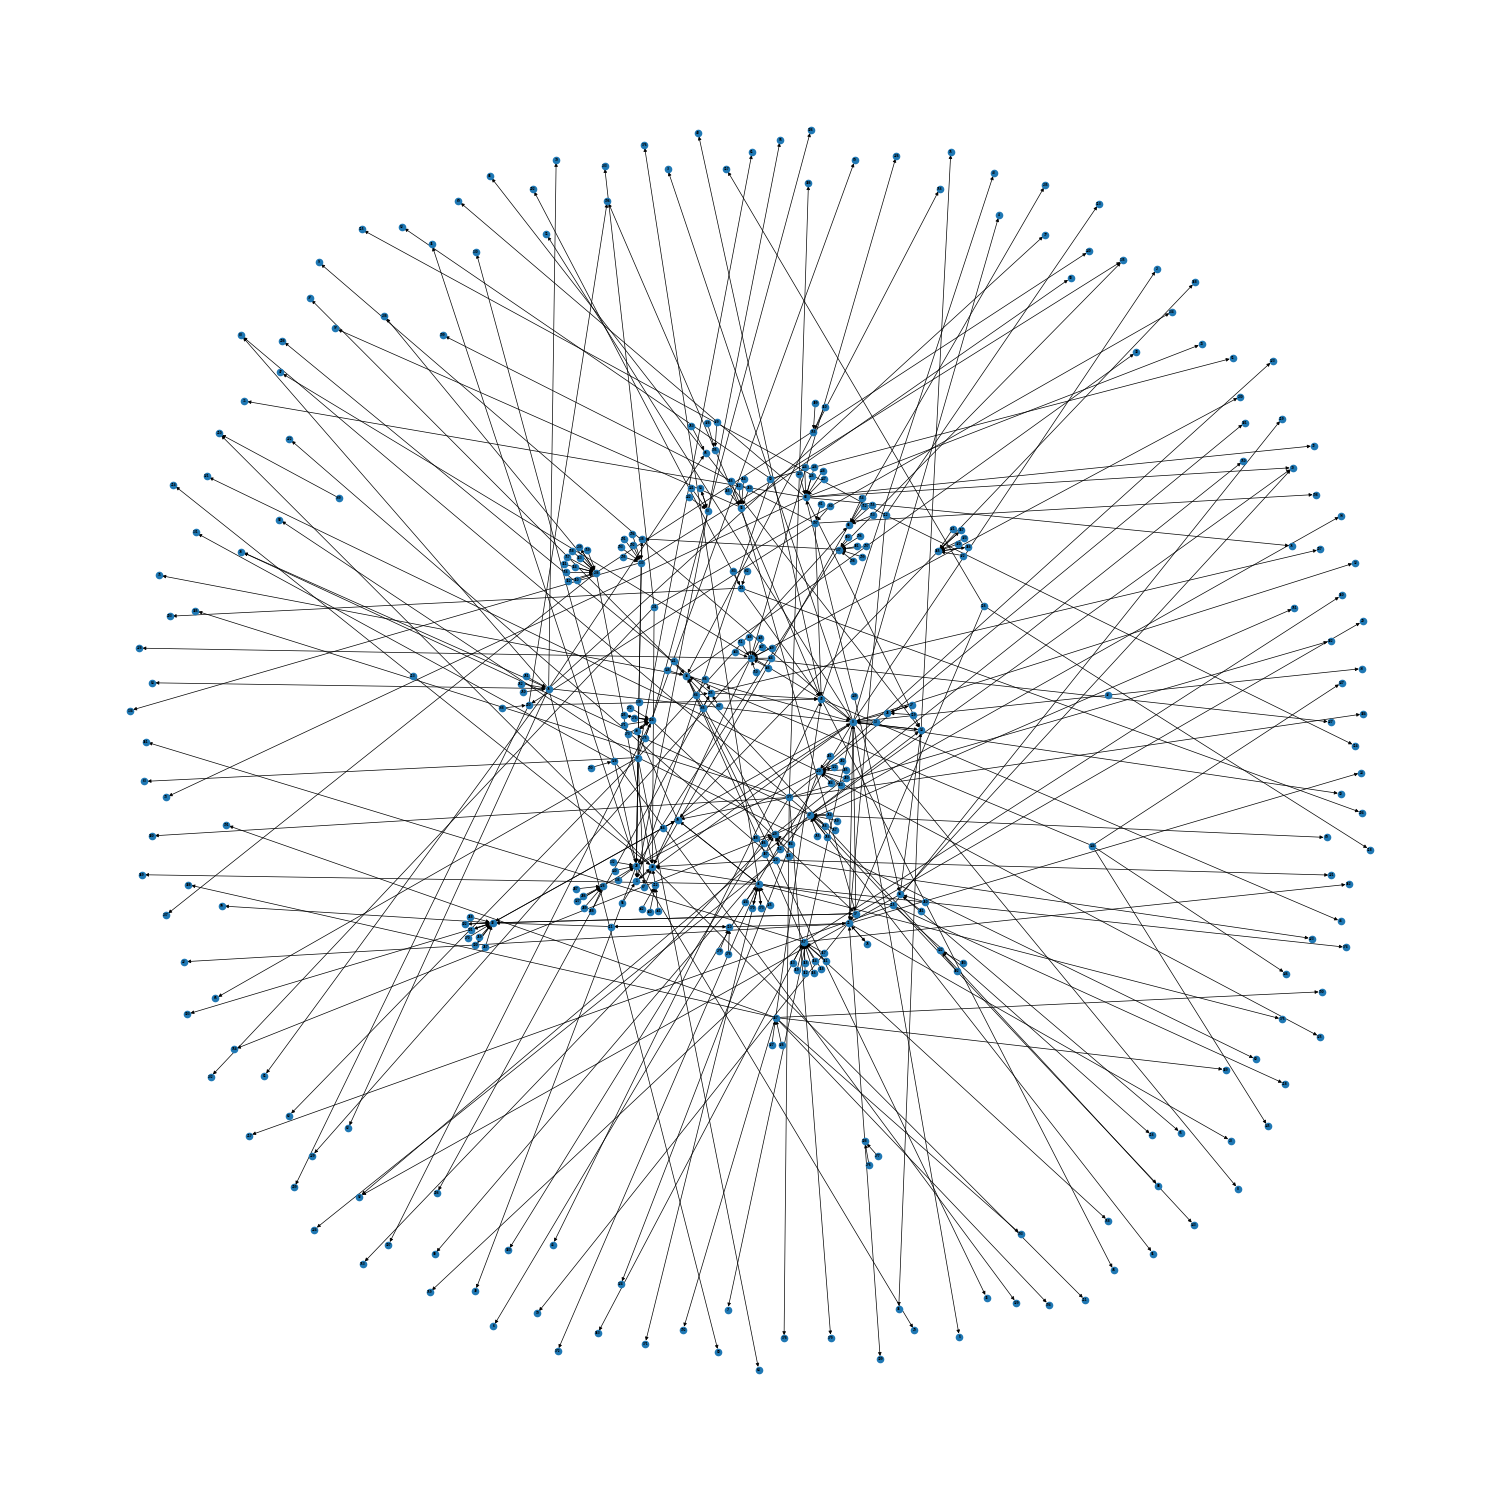
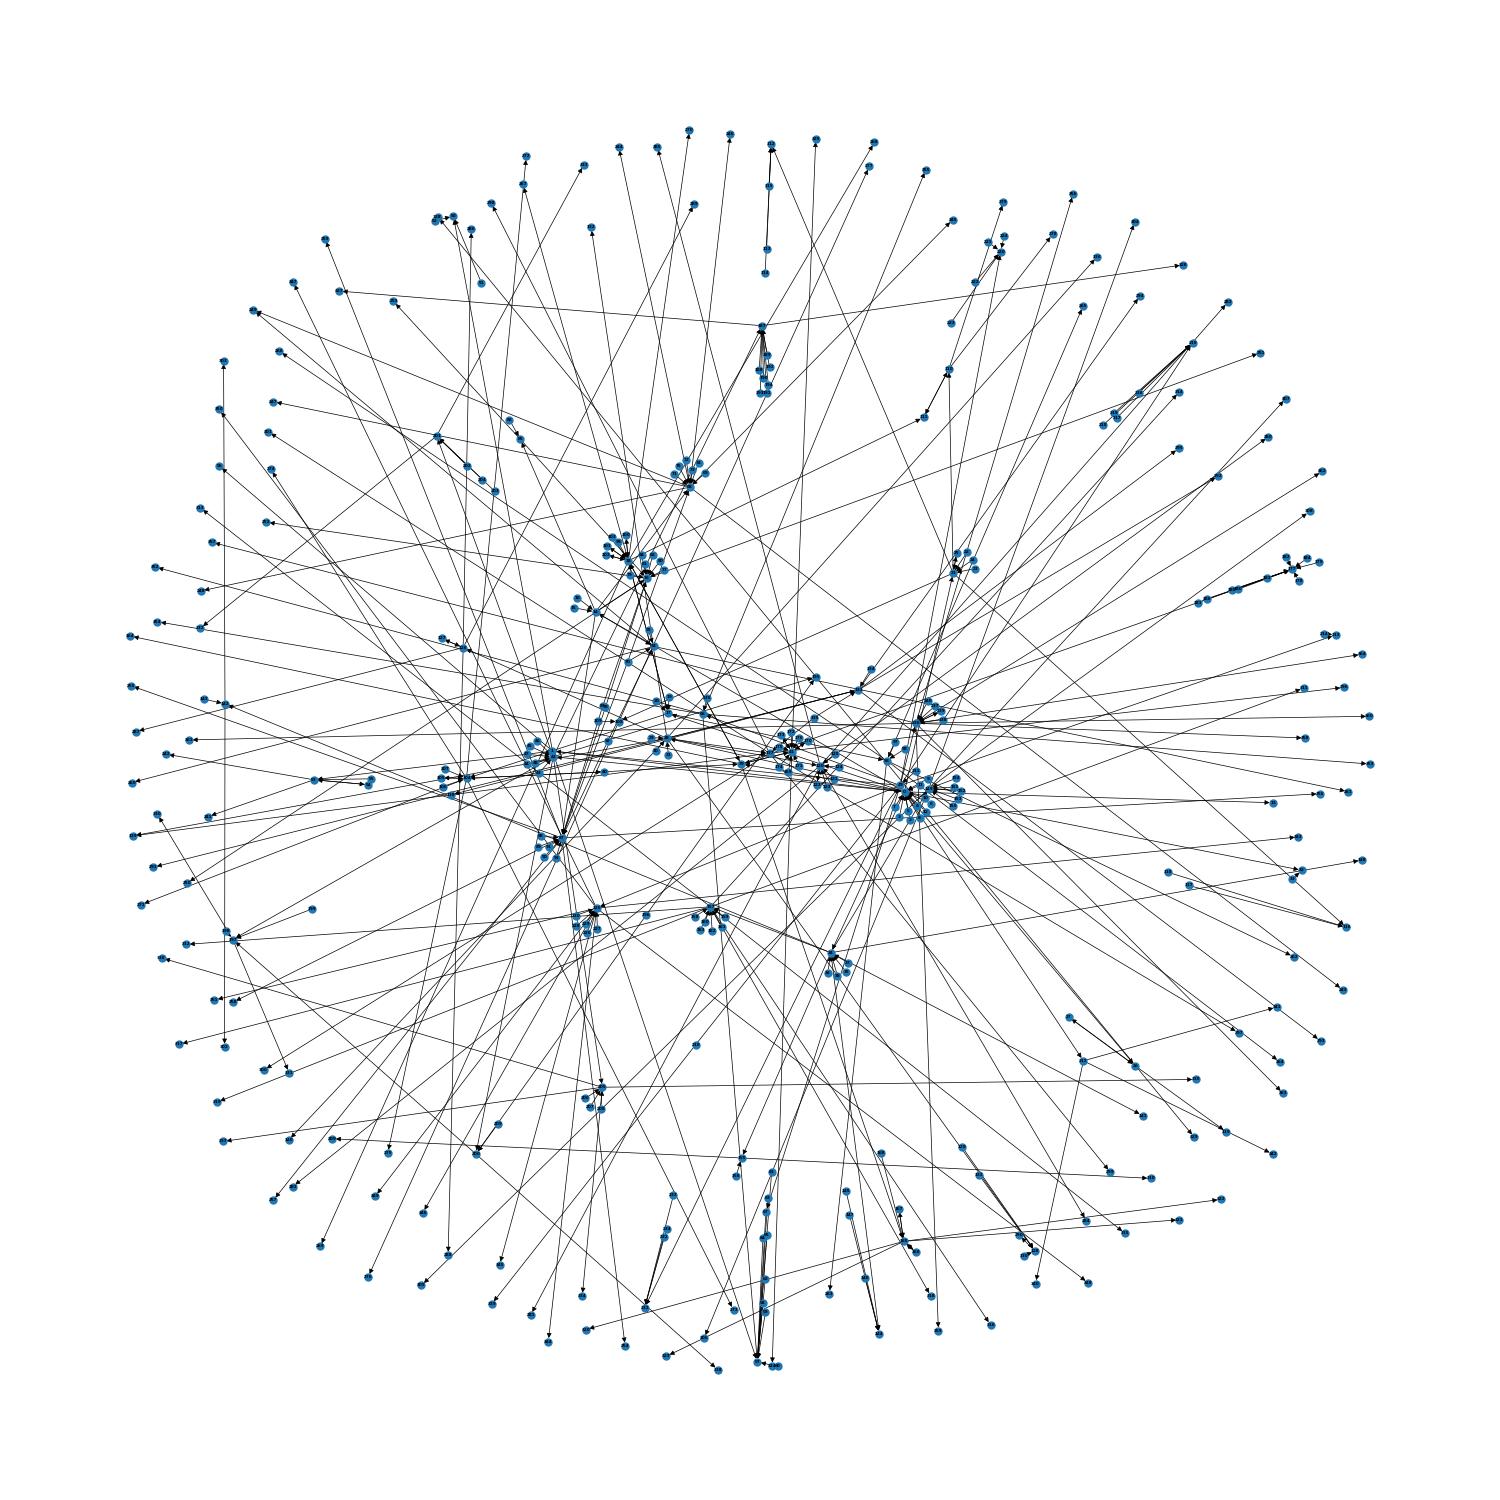
clean code

Changed region(s): [[0.092, 0.092, 0.92, 0.92]]

diff --git a/write-graph.py b/write-graph.py
@@ -1,41 +1,59 @@
 import matplotlib.pyplot as plt
 import networkx as nx
 
-edges = []
-id_dict = {} 
-id_count = 0 
+def parse_network(file_name): 
+    # initialize edge list
+    edges = []
 
-with open('users.txt', 'r') as f: 
-    for line in f: 
-        node, followers = line.split(sep='|')
-        node = int(node)
-        followers = followers.strip()
-        followers = followers.strip('[')
-        followers = followers.strip(']')
-        list_followers = list(map(int, followers.split(',')))
-        for follower in list_followers: 
+    # used to map complicated Twitter IDs to more readable IDs
+    id_dict = {} 
+    id_count = 0 
 
-            if node in id_dict: 
-                node_id = id_dict[node]
-            else: 
-                node_id = id_count 
-                id_dict[node] = node_id 
-                id_count += 1 
-            if follower in id_dict: 
-                follower_id = id_dict[follower]
-            else: 
-                follower_id = id_count 
-                id_dict[follower] = follower_id 
-                id_count += 1 
-            edges.append((node_id, follower_id, 1))
+    # transform data file into an edge list 
+    with open(file_name, 'r') as f: 
+        for line in f: 
 
-# edges are in list/container of 3-tuples (v1, v2, weight)
-# edges = [(1,2,1), (2,1,2), (2,3,1), (3,4,2), (1,3,2)]
+            # parse file 
+            node, followers = line.split(sep='|')
+            node = int(node)
+            followers = followers.strip()
+            followers = followers.strip('[')
+            followers = followers.strip(']')
+            list_followers = list(map(int, followers.split(',')))
 
-DG = nx.DiGraph()
-DG.add_weighted_edges_from(edges)
-plt.figure(1, figsize=(15, 15))
+            # add each follower as an in-neighbor of each node
+            for follower in list_followers: 
 
-nx.draw(DG, with_labels=True, font_size = 2, width=.5, node_size = 20, arrowsize = 5) 
-plt.savefig('network-graph.png')
-plt.show()
+                # assign unique ID to node 
+                if node in id_dict: 
+                    node_id = id_dict[node]
+                else: 
+                    node_id = id_count 
+                    id_dict[node] = node_id 
+                    id_count += 1 
+                # assign unique ID to follower 
+                if follower in id_dict: 
+                    follower_id = id_dict[follower]
+                else: 
+                    follower_id = id_count 
+                    id_dict[follower] = follower_id 
+                    id_count += 1 
+
+                # add edge from follower to node
+                edges.append((follower_id, node_id, 1))
+
+    return edges 
+
+def draw_graph(file_name): 
+    edge_list = parse_network(file_name)
+
+    # create graph from edge list 
+    DG = nx.DiGraph()
+    DG.add_weighted_edges_from(edge_list)
+
+    # draw graph 
+    plt.figure(1, figsize=(15, 15))
+    nx.draw(DG, with_labels=True, font_size = 3, width=.5, node_size = 25, arrowsize = 7) 
+    # save graph 
+    plt.savefig('network-graph.png')
+    plt.show()
